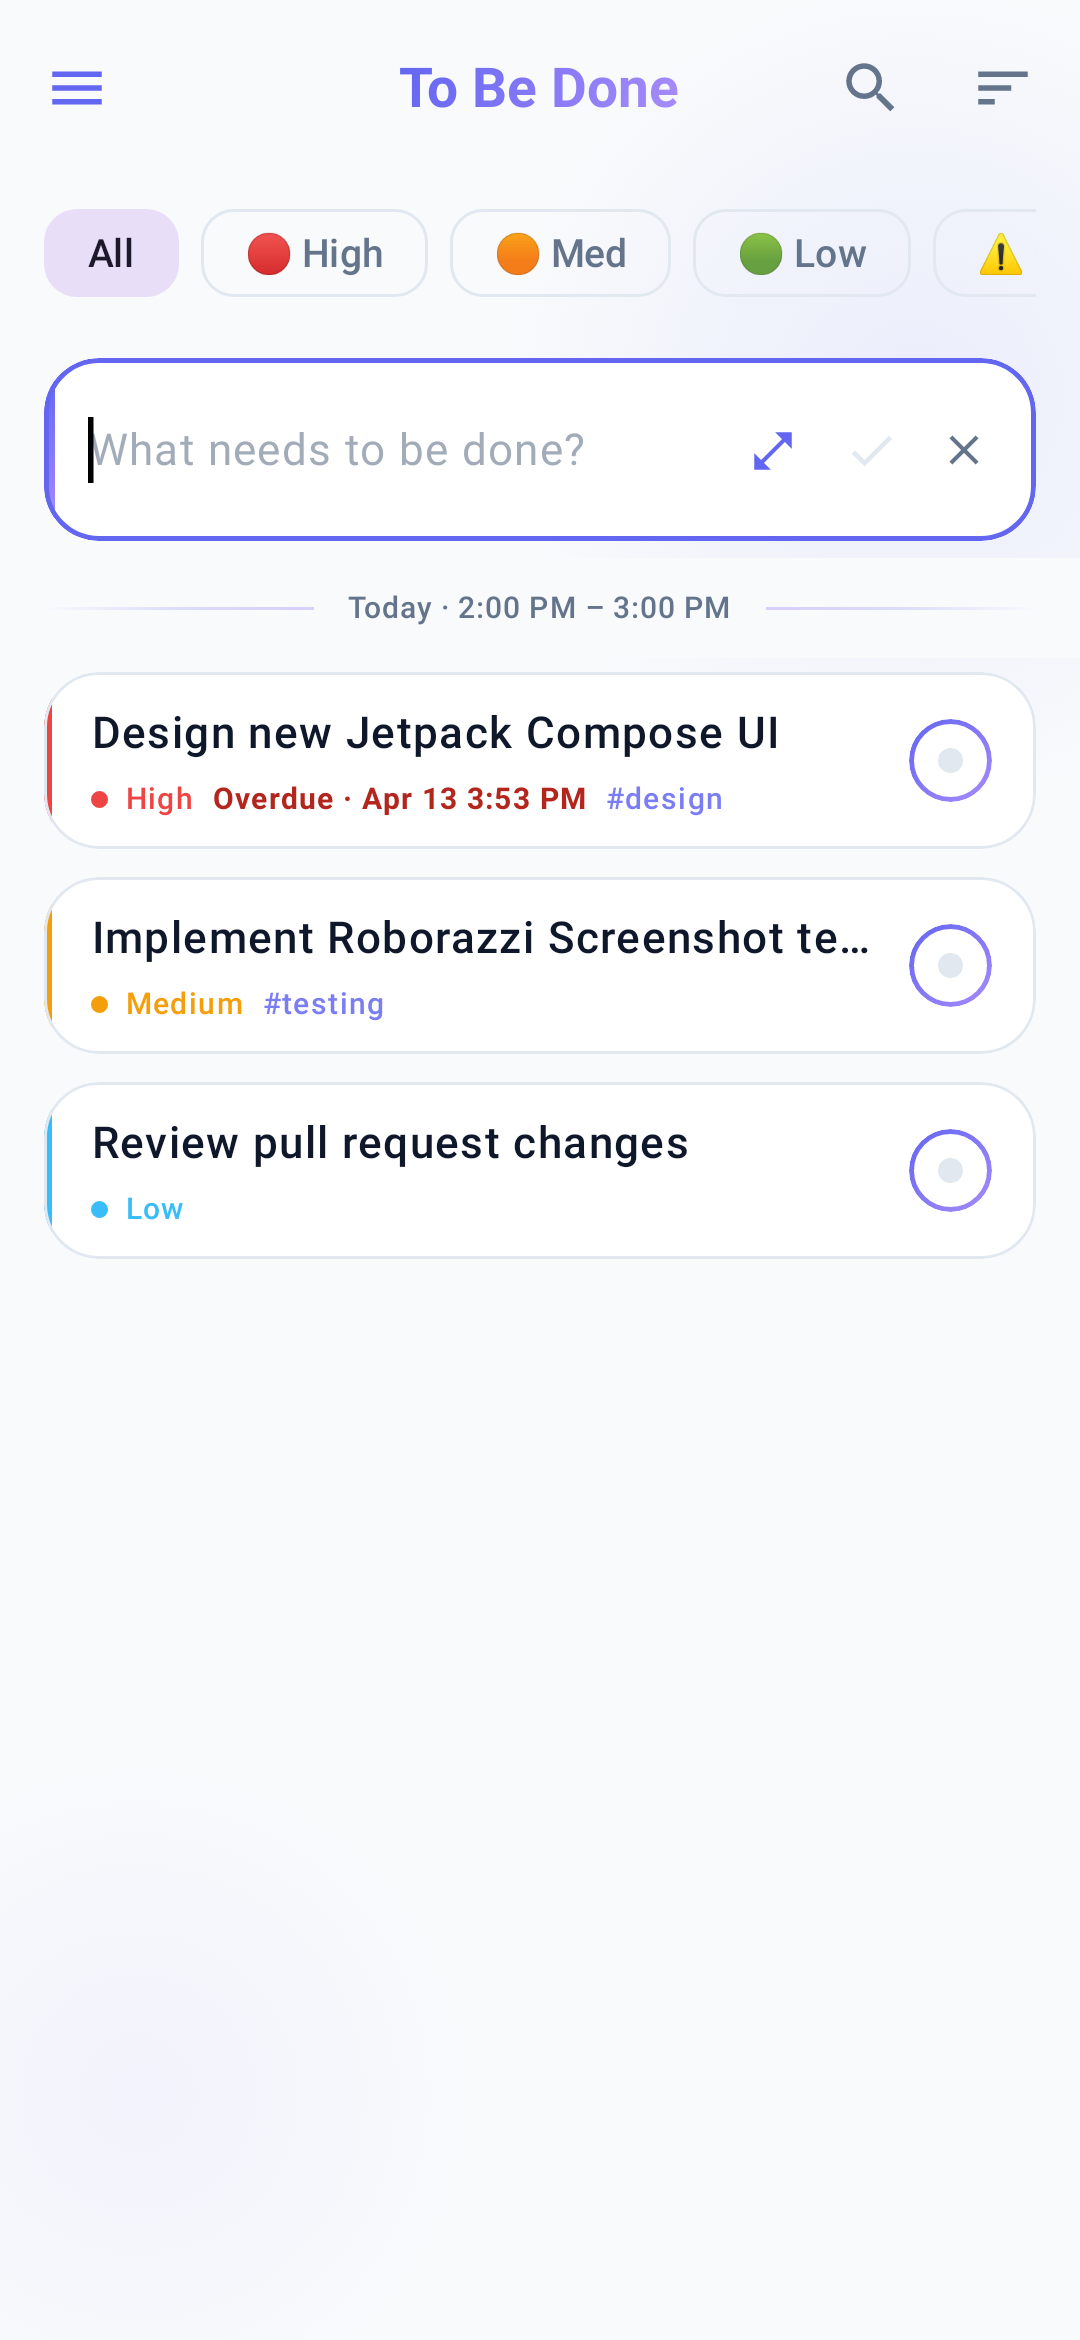
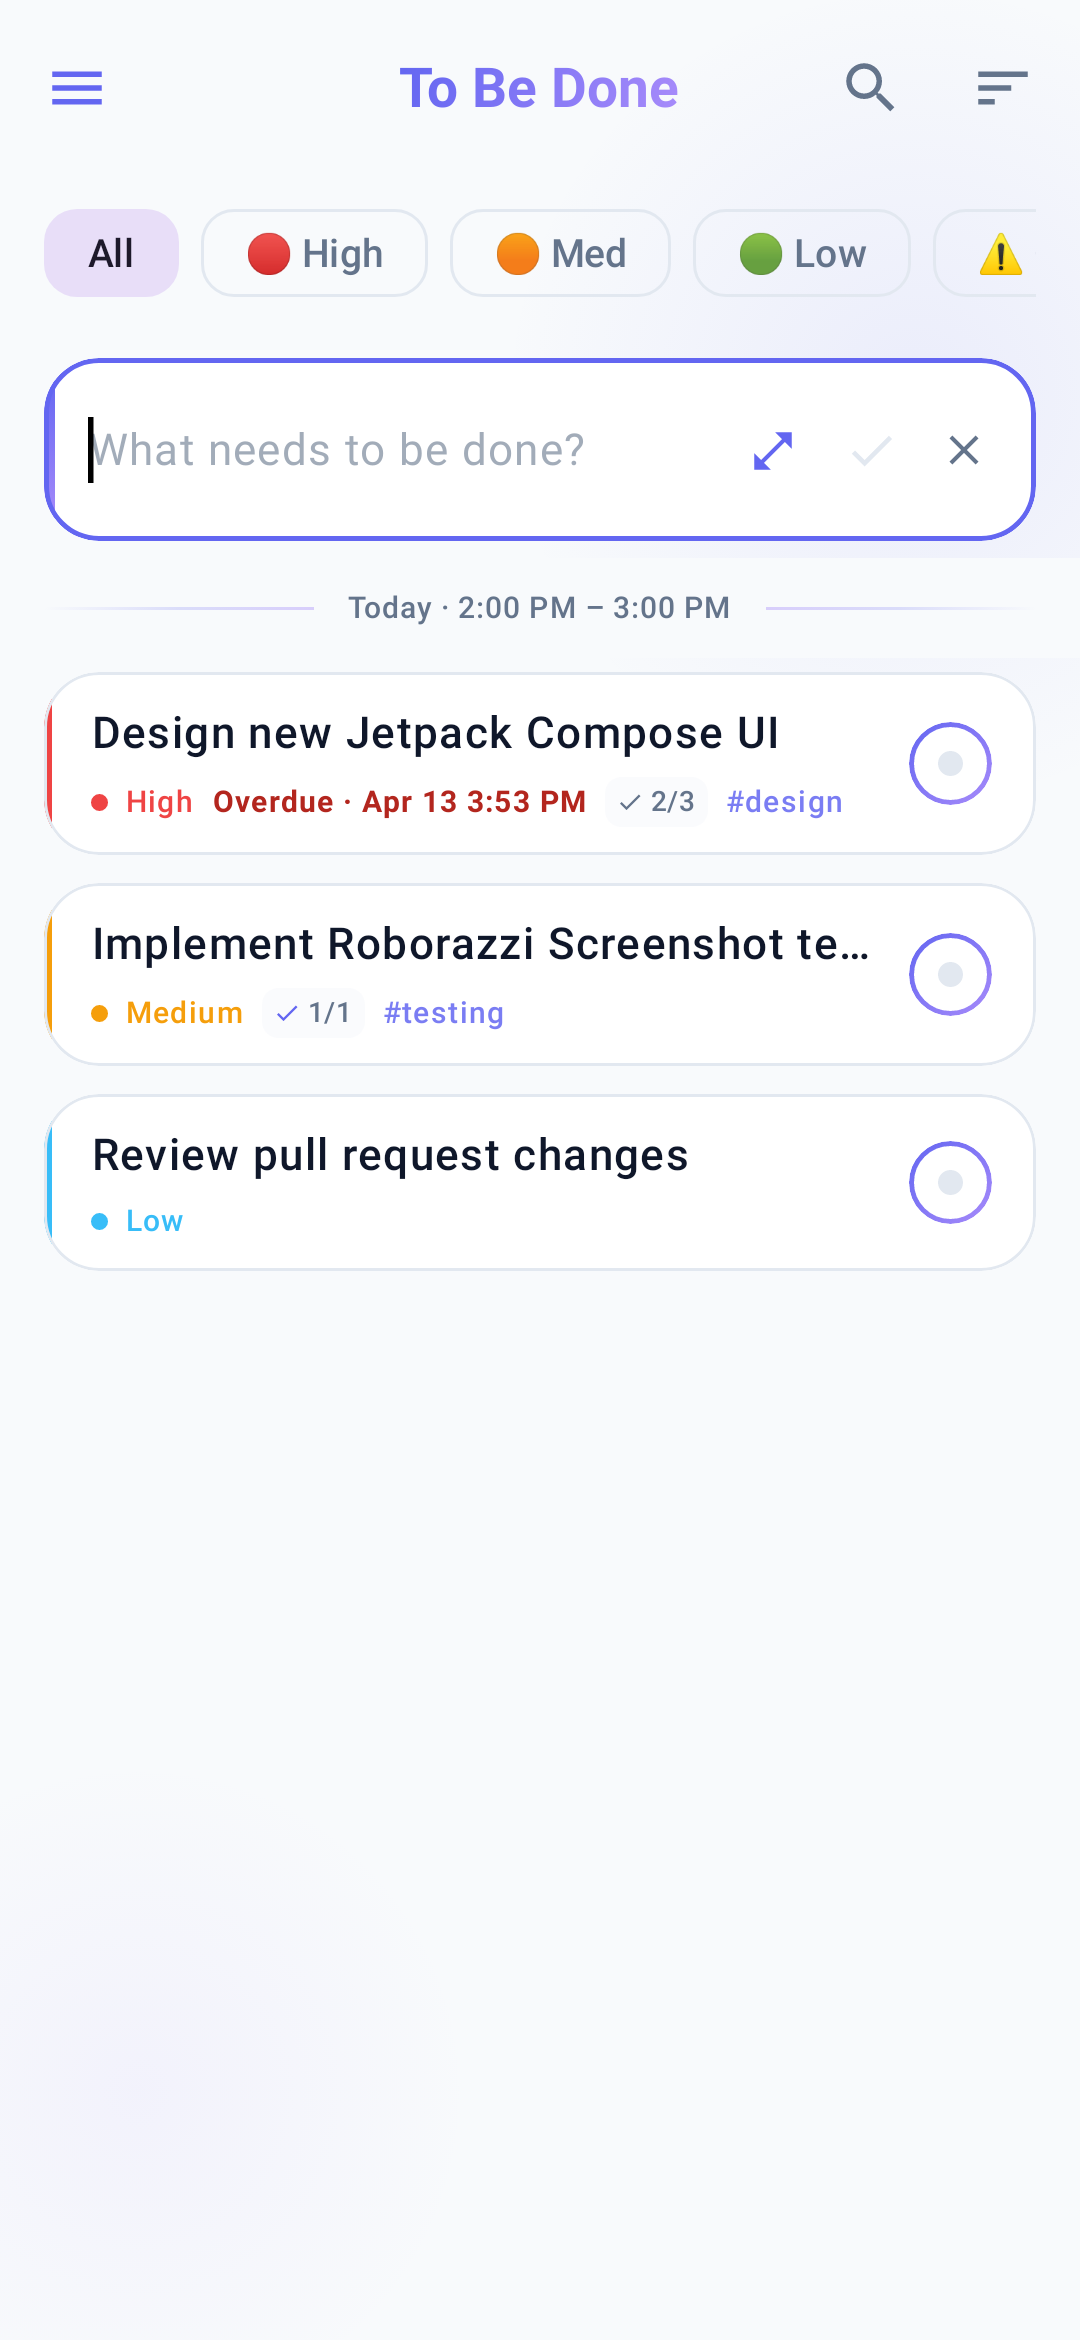
docs: refresh screenshots in README with subtasks, search, and backup cards

diff --git a/app/src/test/java/io/mns/base/app/ui/screenshot/ComposeScreenshotsTest.kt b/app/src/test/java/io/mns/base/app/ui/screenshot/ComposeScreenshotsTest.kt
@@ -49,9 +49,36 @@ class ComposeScreenshotsTest {
     val composeTestRule = createComposeRule()
 
     private val sampleTodos = listOf(
-        TodoItem("1", 1713000000000L, "Design new Jetpack Compose UI", priority = io.mns.base.app.data.Priority.HIGH, dueDate = 1713020000000L, tags = listOf("design", "compose")),
-        TodoItem("2", 1713000000000L + 5000L, "Implement Roborazzi Screenshot tests", priority = io.mns.base.app.data.Priority.MEDIUM, tags = listOf("testing")),
-        TodoItem("3", 1713000000000L + 10000L, "Review pull request changes", priority = io.mns.base.app.data.Priority.LOW)
+        TodoItem(
+            id = "1",
+            createdAt = 1713000000000L,
+            title = "Design new Jetpack Compose UI",
+            description = "Revamp UI with Material 3, spring animations, and status bar insets.",
+            priority = io.mns.base.app.data.Priority.HIGH,
+            dueDate = 1713020000000L,
+            tags = listOf("design", "compose"),
+            subtasks = listOf(
+                io.mns.base.app.data.Subtask("s1", "Create Figma design tokens", isDone = true),
+                io.mns.base.app.data.Subtask("s2", "Build Material 3 top bars & chips", isDone = true),
+                io.mns.base.app.data.Subtask("s3", "Implement checklist animations", isDone = false)
+            )
+        ),
+        TodoItem(
+            id = "2",
+            createdAt = 1713000000000L + 5000L,
+            title = "Implement Roborazzi Screenshot tests",
+            priority = io.mns.base.app.data.Priority.MEDIUM,
+            tags = listOf("testing"),
+            subtasks = listOf(
+                io.mns.base.app.data.Subtask("s4", "Record golden baseline images", isDone = true)
+            )
+        ),
+        TodoItem(
+            id = "3",
+            createdAt = 1713000000000L + 10000L,
+            title = "Review pull request changes",
+            priority = io.mns.base.app.data.Priority.LOW
+        )
     )
 
     private val sampleSections = listOf(
@@ -62,7 +89,18 @@ class ComposeScreenshotsTest {
     )
 
     private val sampleDoneItems = listOf(
-        DoneItem("d1", 1712900000000L, "Configure Gradle dependencies", priority = io.mns.base.app.data.Priority.HIGH, tags = listOf("build")),
+        DoneItem(
+            id = "d1",
+            doneAt = 1712900000000L,
+            title = "Configure Gradle dependencies",
+            description = "Setup libs.versions.toml and targetSdk 36",
+            priority = io.mns.base.app.data.Priority.HIGH,
+            tags = listOf("build"),
+            subtasks = listOf(
+                io.mns.base.app.data.Subtask("s5", "Update AGP to 8.7.3", isDone = true),
+                io.mns.base.app.data.Subtask("s6", "Configure Room SQLite v4", isDone = true)
+            )
+        ),
         DoneItem("d2", 1712800000000L, "Setup Room persistence database", priority = io.mns.base.app.data.Priority.MEDIUM)
     )
 

diff --git a/README.md b/README.md
@@ -15,19 +15,19 @@ A modern, minimalist, and lightweight Todo app for Android built entirely with *
 ## 📸 Screenshots
 
 <p align="center">
-  <img src="screens/home.png" width="270" alt="Home - Active Tasks with Priority & Tags">
+  <img src="screens/home.png" width="270" alt="Home - Search, Filters, Priority & Subtasks">
   &nbsp;&nbsp;
   <img src="screens/inline_add.png" width="270" alt="Inline Add Task UX">
   &nbsp;&nbsp;
-  <img src="screens/todo_detail.png" width="270" alt="Task Details - Priority, Due Date, Tags">
+  <img src="screens/todo_detail.png" width="270" alt="Task Details - Subtasks Checklist, Priority & Due Date">
 </p>
 
 <p align="center">
-  <img src="screens/done.png" width="270" alt="Done - Completed Tasks with Tags">
+  <img src="screens/done.png" width="270" alt="Done - Completed Tasks & Swipe Actions">
   &nbsp;&nbsp;
-  <img src="screens/insights.png" width="270" alt="Insights - Statistics & Priority Breakdown">
+  <img src="screens/insights.png" width="270" alt="Insights - Productivity Trends & Priority Stats">
   &nbsp;&nbsp;
-  <img src="screens/settings.png" width="270" alt="Settings & Appearance">
+  <img src="screens/settings.png" width="270" alt="Settings - Sort Order & Data Backup/Restore">
 </p>
 
 ---
